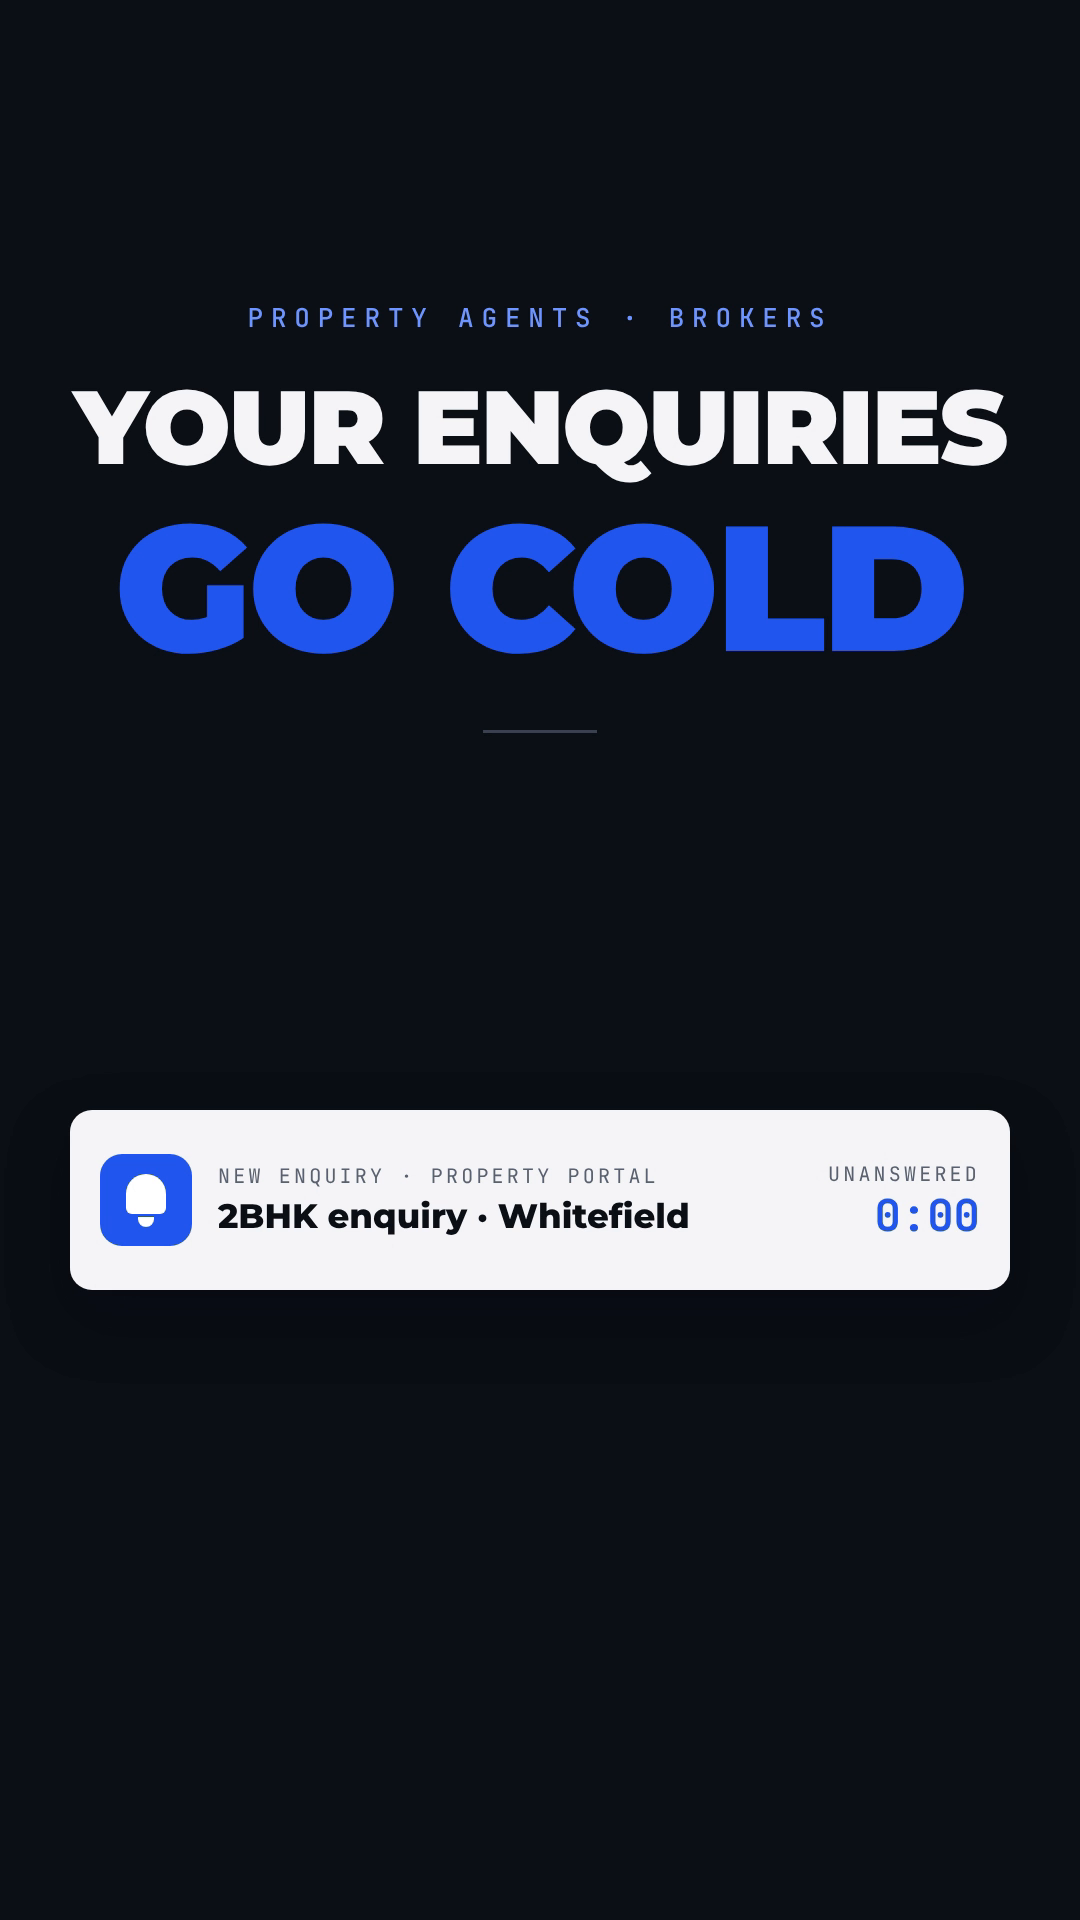
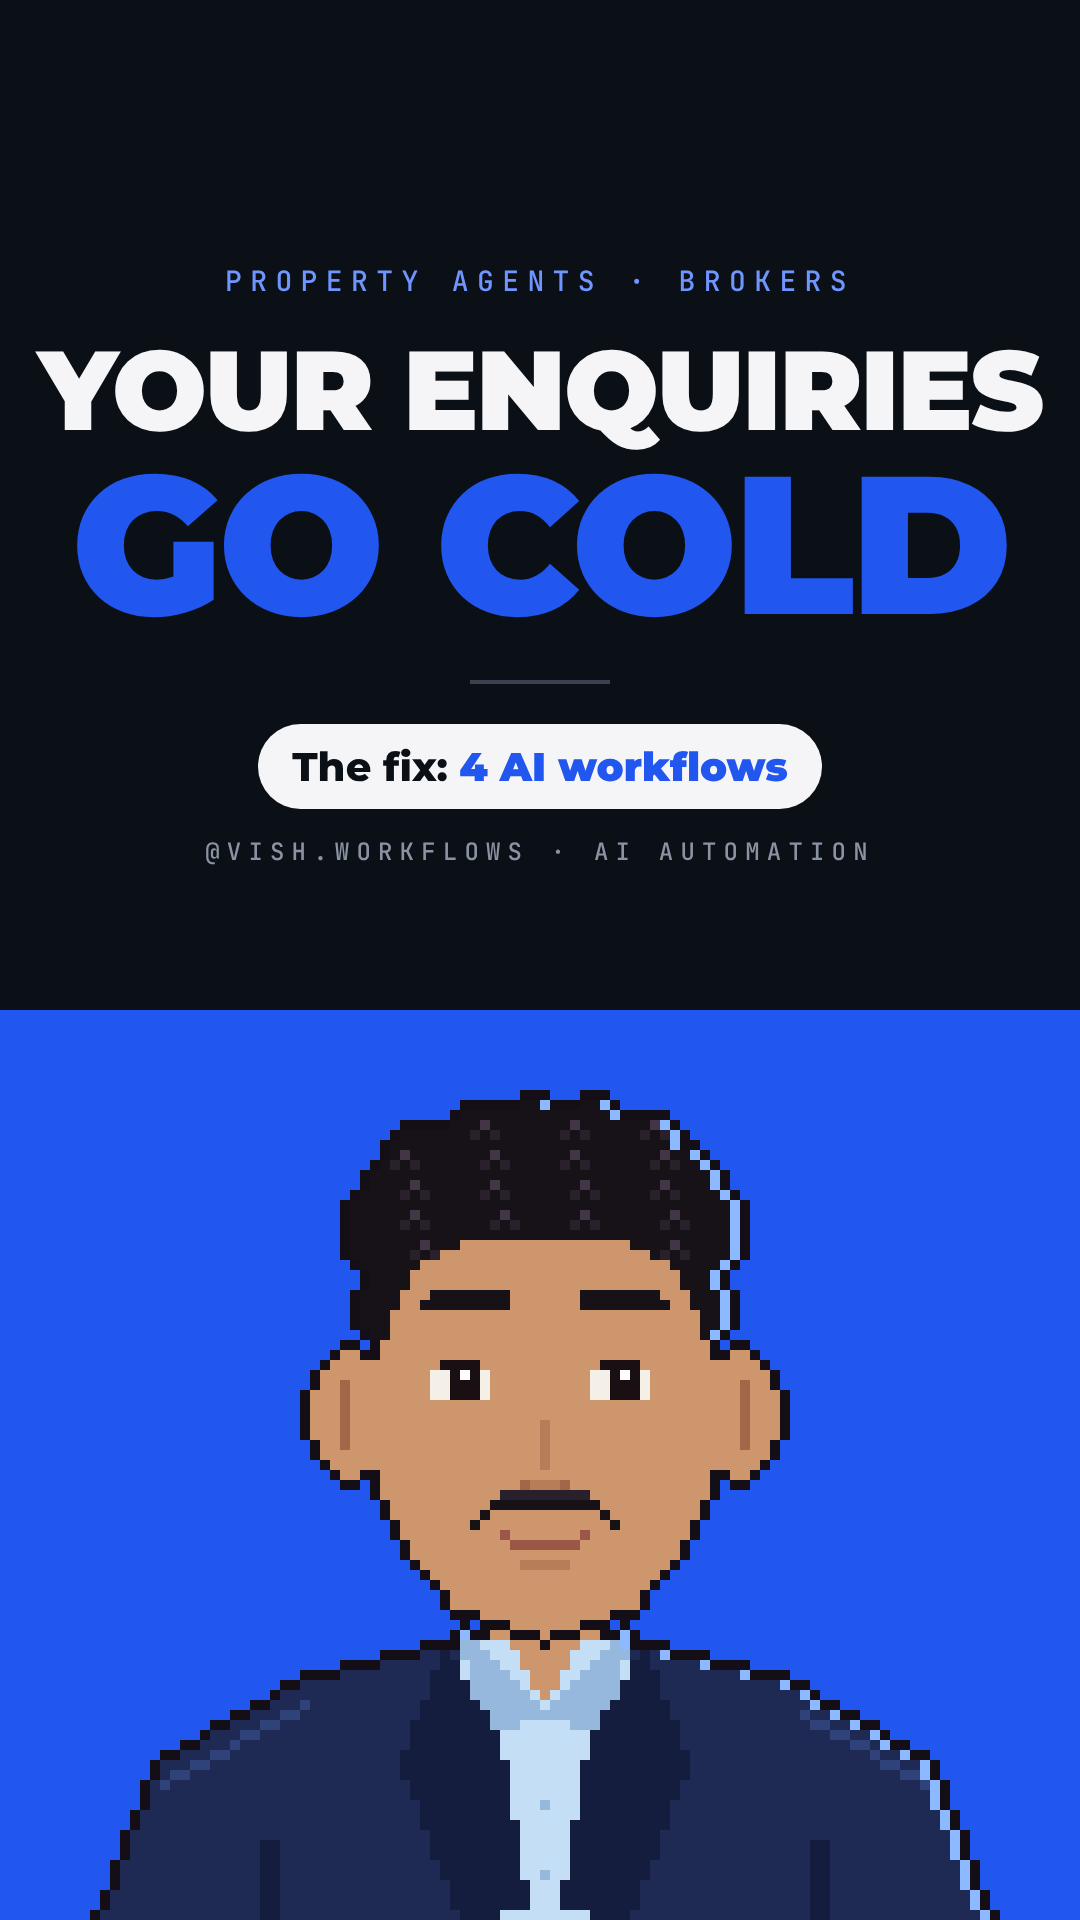
speed-to-lead: custom cover with Vish, hashtags and pinned comment in post kit
Claude-Session: https://claude.ai/code/session_015AZjwHfnYwD2k1PbZiTmPo

diff --git a/vish-daily/2026-10-29-speed-to-lead/cover-src/cover.html b/vish-daily/2026-10-29-speed-to-lead/cover-src/cover.html
@@ -1,0 +1,27 @@
+<!doctype html><html><head><meta charset="utf-8">
+<link href="https://fonts.googleapis.com/css2?family=Montserrat:wght@800;900&family=JetBrains+Mono:wght@500;700&display=block" rel="stylesheet">
+<style>
+*{margin:0;padding:0;box-sizing:border-box}
+body{width:1080px;height:1920px;background:#0B1016;position:relative;overflow:hidden;font-family:Montserrat,sans-serif}
+.mono{font-family:'JetBrains Mono',monospace;letter-spacing:.3em;text-transform:uppercase}
+#kick{position:absolute;top:262px;width:1080px;text-align:center;font-size:28px;color:#6F95FF;font-weight:500}
+#l1{position:absolute;top:322px;width:1080px;text-align:center;font-size:112px;font-weight:900;color:#F5F5F7;letter-spacing:-.02em}
+#l2{position:absolute;top:446px;width:1080px;text-align:center;font-size:196px;font-weight:900;color:#2257EF;letter-spacing:-.02em;line-height:1}
+#rule{position:absolute;top:680px;left:470px;width:140px;height:4px;background:#3A4252}
+#pill{position:absolute;top:724px;width:1080px;text-align:center}
+#pill span{display:inline-block;background:#F5F5F7;color:#0B1016;font-weight:800;font-size:40px;padding:18px 34px;border-radius:999px}
+#pill b{color:#2257EF}
+#sub{position:absolute;top:836px;width:1080px;text-align:center;font-size:24px;color:#8A93A3}
+#panel{position:absolute;top:1010px;left:0;width:1080px;height:910px;background:#2257EF;overflow:hidden}
+#panel img{position:absolute;left:0;top:-10px;width:1080px;height:920px;image-rendering:pixelated}
+</style></head><body>
+<div id="kick" class="mono">Property agents · Brokers</div>
+<div id="l1">YOUR ENQUIRIES</div>
+<div id="l2">GO COLD</div>
+<div id="rule"></div>
+<div id="pill"><span>The fix: <b>4 AI workflows</b></span></div>
+<div id="sub" class="mono">@vish.workflows · AI automation</div>
+<div id="panel">
+<img src="file:///home/user/100dayspythonchallenge/vish-daily/2026-10-29-speed-to-lead/reel/assets/presenter/body.png"><img src="file:///home/user/100dayspythonchallenge/vish-daily/2026-10-29-speed-to-lead/reel/assets/presenter/head.png"><img src="file:///home/user/100dayspythonchallenge/vish-daily/2026-10-29-speed-to-lead/reel/assets/presenter/eyes_open.png"><img src="file:///home/user/100dayspythonchallenge/vish-daily/2026-10-29-speed-to-lead/reel/assets/presenter/brows_up.png"><img src="file:///home/user/100dayspythonchallenge/vish-daily/2026-10-29-speed-to-lead/reel/assets/presenter/mouth_rest.png"><img src="file:///home/user/100dayspythonchallenge/vish-daily/2026-10-29-speed-to-lead/reel/assets/presenter/mustache.png">
+</div>
+</body></html>

diff --git a/vish-daily/2026-10-29-speed-to-lead/post.md b/vish-daily/2026-10-29-speed-to-lead/post.md
@@ -59,13 +59,23 @@ The first line is 89 characters, so it shows before "more". Line 2 is the keywor
 
 ## 3. Cover and alt text
 
-- **Cover:** `cover.png`, the hook frame. Its on-screen text reads "YOUR ENQUIRIES GO COLD".
-- **Alt text:** "Pixel-art presenter Vish explains a real estate automation: property enquiries get an instant AI reply, are qualified, routed to the agent on WhatsApp for approval, booked as a site visit and followed up with matching properties."
+- **Cover:** `cover.png`, a custom design (built from `cover-src/cover.html`): PROPERTY AGENTS · BROKERS, YOUR ENQUIRIES / GO COLD, a "The fix: 4 AI workflows" pill, the @vish.workflows label and Vish on the blue panel. Everything important sits inside the 3:4 grid crop (y 240–1680).
+- In Instagram: Edit cover → Add from camera roll → `cover.png`.
+- **Alt text:** "AI agent for real estate agents: property enquiries from 99acres and WhatsApp get an instant reply, are qualified, routed on WhatsApp for approval and booked as site visits."
 - Turn on Instagram's auto-captions as well (the burned-in captions stay).
+
+### Hashtags (5)
+
+`#RealEstateIndia #AIAutomation #RealEstateAgent #PropertyDealer #WhatsAppAutomation`
+
+Swap-ins for later reels (keep 5 in total): #RealEstateMarketing #PropertyConsultant #ChannelPartner #RealEstateBroker #BusinessAutomation #AIAgents #LeadGeneration
 
 ## 4. Pinned comment
 
-> Comment WORKFLOW and I'll send you the full Speed-to-Lead Playbook 👇 (follow first so it reaches your DMs)
+> Comment WORKFLOW and I'll send you the free Speed-to-Lead Playbook 📩 4 AI workflows for property agents: instant enquiry reply, buyer qualification, site visit booking and follow-up. (Follow first so it reaches your DMs 👇)
+
+Reply under your own pinned comment with the engagement question, so the thread starts itself:
+> Quick question for agents: how fast do you reply to a new enquiry today? 5 min, 1 hour or next day?
 
 ## 5. Story share
 
